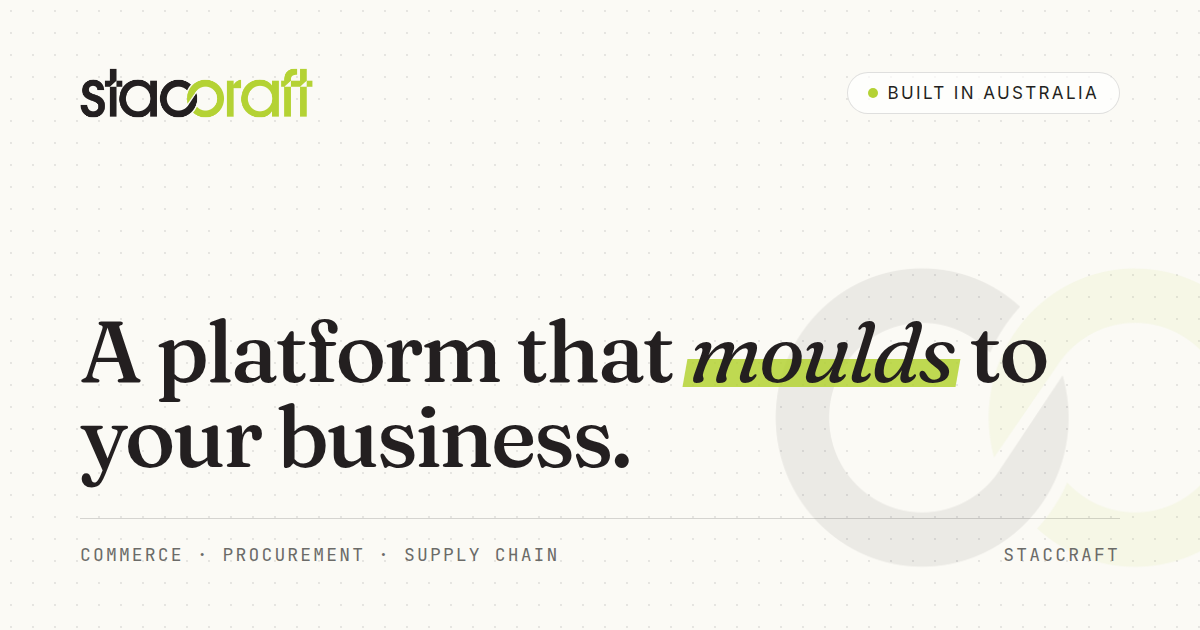
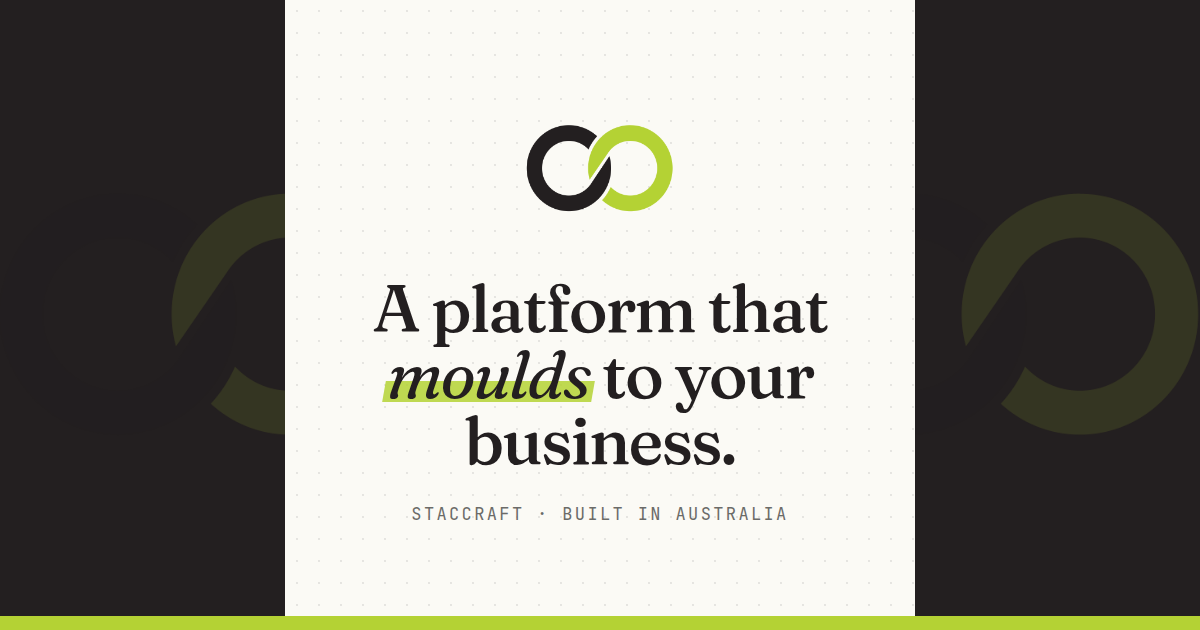
Make link previews survive Teams' square crop
Redesigns the preview image so the mark and headline sit in the centre
square that Teams and other apps crop to, shortens the home preview title
to the brand name, and versions the image address so apps fetch the new
image instead of a saved copy.

Claude-Session: https://claude.ai/code/session_013tzyFVQc13A2d5BEAajtN6

diff --git a/vite.config.js b/vite.config.js
@@ -8,6 +8,9 @@ import fs from 'fs';
 // into the HTML at build time: dist/index.html for Home and a copy per page for the rest.
 // Preview images need a full address: set SITE_URL (e.g. https://staccraft.com) where you build;
 // on Vercel the production domain is used automatically.
+// Bump when public/og-image.png changes, so Teams, LinkedIn etc. fetch the new image instead of a saved copy.
+const OG_IMAGE_VERSION = 2;
+
 function pageMeta() {
   const content = JSON.parse(fs.readFileSync(path.resolve(__dirname, 'content.json'), 'utf8'));
   const { brand = {}, pages = [] } = content;
@@ -20,14 +23,14 @@ function pageMeta() {
     const title = home ? `${brand.name} · ${brand.tagline || ''}` : `${p.title} · ${brand.name}`;
     const desc = plain(p.description || (p.article && p.article.excerpt) || brand.tagline || '');
     const url = site + (home ? '/' : '/' + p.id);
-    const img = site + '/og-image.png';
+    const img = site + '/og-image.png?v=' + OG_IMAGE_VERSION;
     return [
       `<title>${esc(title)}</title>`,
       `<meta name="description" content="${esc(desc)}" />`,
       `<meta property="og:type" content="${p.article ? 'article' : 'website'}" />`,
       `<meta property="og:site_name" content="${esc(brand.name)}" />`,
       `<meta property="og:locale" content="en_AU" />`,
-      `<meta property="og:title" content="${esc(home ? brand.name + ' · ' + (brand.tagline || '') : p.title)}" />`,
+      `<meta property="og:title" content="${esc(home ? brand.name : p.title + " · " + brand.name)}" />`,
       `<meta property="og:description" content="${esc(desc)}" />`,
       site && `<meta property="og:url" content="${esc(url)}" />`,
       site && `<link rel="canonical" href="${esc(url)}" />`,
